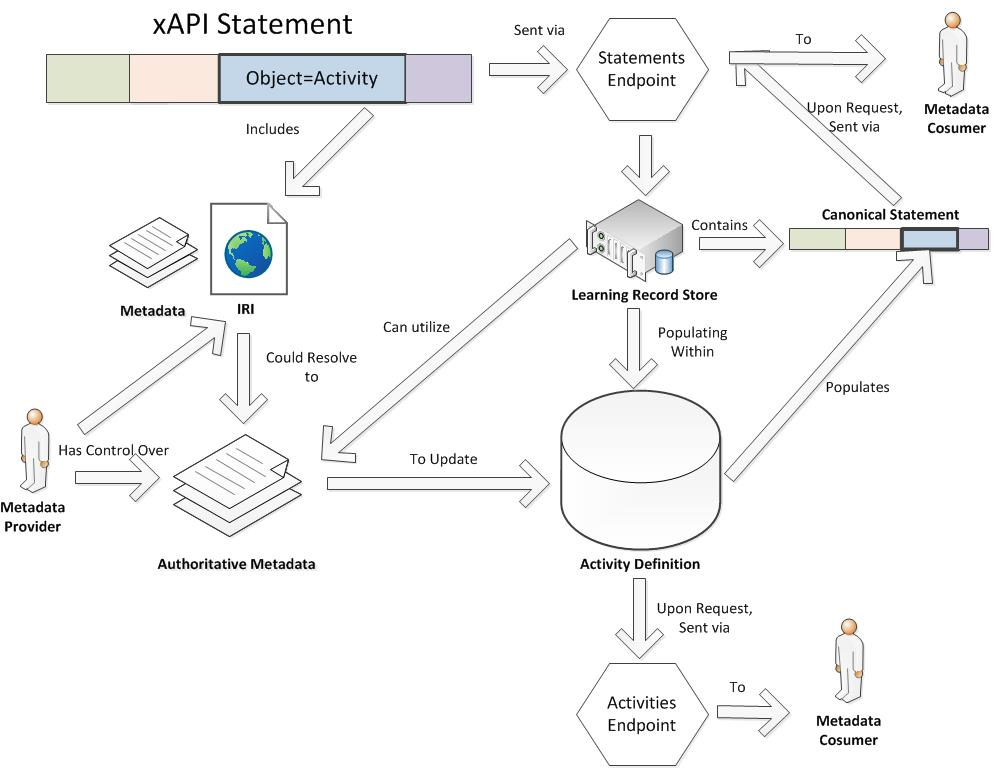
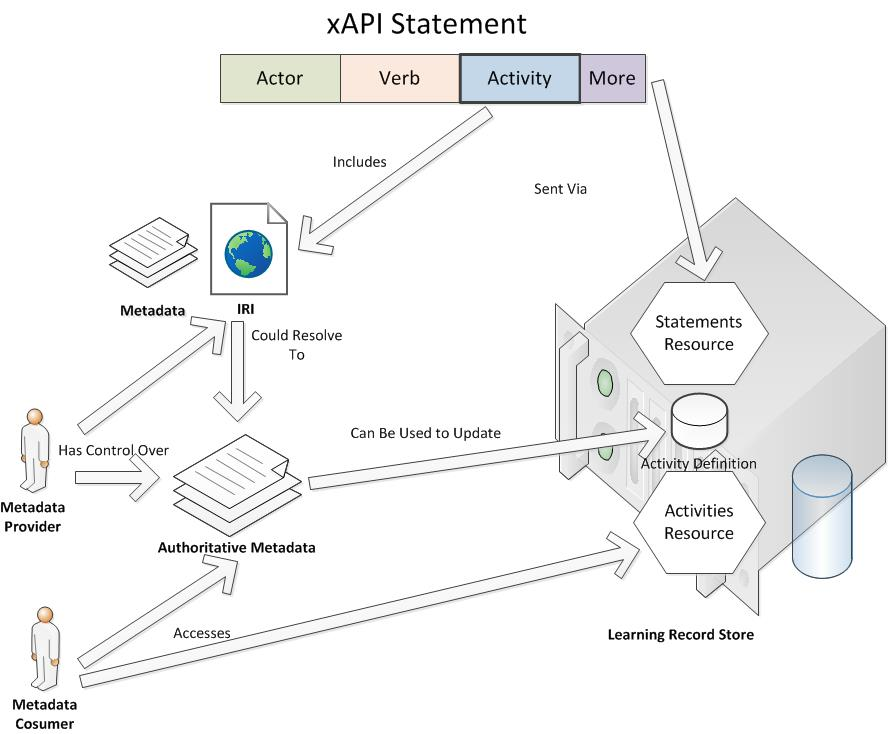
Updated Descriptions and Graphics
Total revamp!

diff --git a/xAPI.md b/xAPI.md
@@ -513,37 +513,39 @@ This section explains and shows graphically how different pieces of xAPI can fit
 
 ![Data Flow in xAPI](/xAPIDataFlow.jpg)
 
-Figure 1 shows the tracking of experiences through the data flow of a series of systems.  The cloud in the picture 
-represents a Learning Management System, or LMS.  An LMS, if present, would likely encapsulate everything within 
-the cloud.  In either case, a user will be dependent on a relationship between content and one or more Learning 
-Record Stores.  It is also possible a learner is dependent on an Activity Provider to deliver and/or authorize use 
-of content to them.  Once this triangle of authorization and access is complete, a registration exists for that 
-user in that content for that LRS.  LRSs, at request of the user, can also share data to other LRSs that may or 
-may not be a part of the LMS framework.  Web Services, again as a part of or independent of the LMS, can pull 
-data from one or more LRSs, send them through other Web Services or LRSs.
+Figure 1 shows the tracking of experiences through the data flow of xAPI. A user either accesses on their own, or 
+is provided access to web-enabled content.  The user, known by the LRS, is tracked in the experiences that he or 
+she has while taking that content. A Data Analysis Tool, acting as a Service with permission, can grab the data  
+from the LRS and use it to display meaningful reports or visualizations to the user. In the case of more 
+structured   learning, a user may be dependent on an Activity Provider to deliver and/or authorize use of content 
+to them.  Once this triangle of authorization and access is complete, a registration exists for that user in that 
+content tracked by that LRS and experience tracking may proceed.
 
 ##### Activity Data and Metadata
 
 ![xAPI Activity Data and Metadata](/xAPIMetadata.jpg)
 
 Understanding how a single activity (as uniquely identified by its IRI) is produced, populated, updated, and 
-consumed is a key concept in xAPI. Figure 2 shows this process.  xAPI Statements with the Object as an Activity, 
-have metadata within its Activity Definition.  For each Statement, this amount may be large or extremely sparse.  All Statements are sent via the Statement endpoint to the LRS.  Within the Activity is an IRI which also could have metadata located at it (note that this is different from the moreinfo URL in the Activity Definition, which could also have information located at it, is not involved in any other way in this information flow.  The base portion of the IRI as well as any metadata where the IRI resolves is under the control of the Metadata Provider.  Any metadata at the IRI is the authoritative source of metadata, and will populate the overall Activity Definition. This is known as the canonical definition of the activity can be returned on its own by querying 'canonical' on the Statement Endpoint.  It can then be used by the Metadata Consumer.  Other forms of the metadata can be returned via other query options of the Statement Endpoint or the Activity Definition in its entirety can be obtained via the Activities Endpoint.  The LRS is responsible for population and updates of this Activity Definition as well as sending the corresponding metadata upon being queried by the Statement Resource (Endpoint).
+consumed is a key concept in xAPI. Figure 2 shows this process.  xAPI Statements with the Activity objects have  
+metadata properties that may be populated.  This is done through the  Activity Definition Object.  Within the 
+Activity is an IRI which also could have metadata located at where it resolves to. (Note that this is different  
+from the moreinfo  URL in the Activity Definition, which could also have information located at it, but is not 
+involved in any way in this information flow.) The base portion of the IRI as well as any metadata where the IRI resolves is under the control of the Metadata Provider.  Any metadata at the IRI is the authoritative source of metadata, and could be used to populate the LRS's aggregated version of the Activity's metadata (Activity Definition) instead of what it receives from Statements. A Metadata Consumer can access Metadata directly from the authority or can query the Activities Resource.  
 
 
 ##### Agent and Profile Management
 
 ![xAPI Activity Data and Metadata](/xAPIAgentsAndEndpoints.jpg)
 
-xAPI grants the framework for allowing selective access to one's personal data.  This is done through the management of what we've come to call personas.  In xAPI, the Actor represents the "I" in "I did this" and is 
-logically the subject of the Statement.  A user sending records to an LRS could have multiple Agents (the single type of Actor) associated with him or her.  In Figure 3, a single user can access multiple accounts (could be multiple user names, email addresses, etc.), all of which send data to the LRS.  In this single-user case, Each 
-Statement in the LRS has a single Agent associated with it and each representing a different persona.  With this 
-information, the LRS can do things like return only Statements from a single persona using the Statements Resource 
-(Endpoint).  It can aggregate all of the information of each of the Agents into one "Person" Object and send it 
-through the Agents Resource (Endpoint).  Finally, it can create Agent profiles, which are documents with specific 
-Agent information.  It can handle multiple documents per Agent, so sharing of personal information can become 
-even more granular than showing someone all of the Learning Records from one of your accounts.  This sharing is 
-done through the Agents Profile Resource (Endpoint).     
+xAPI grants the framework for allowing selective access to one's personal data.  This is done through the management of what we've come to call personas.  In xAPI, each persona represents the "I" in "I did this" and is 
+logically the subject of the Statement.  A user sending records to an LRS could have multiple personas associated with him or her.  In Figure 3, a single user can access multiple Services(or apps, etc.), each of which could have a different persona.  More likely is that personas exist with a common purpose, such as work, home, school, social, etc.  Each of these Services send data to the LRS. Within the LRS now, there are Statements from three different 
+personas of the same user.  The LRS can aggregate all of the information of each of the personas into one "Person"  
+Object and send it through the Agents Resource.  
+
+Data kept about each persona is not restricted to Statements.  Data can also be kept in an Agent Profile, which 
+use the same personas as defined in the Statements.  An agent profile could be used to see learner preferences or 
+progress by people or systems to offer recommendations or interventions.  The LRS provides access to Agent Profiles 
+via the Agent Profile Resource.   
 
 
 ## 8.0 Getting More Out of xAPI
